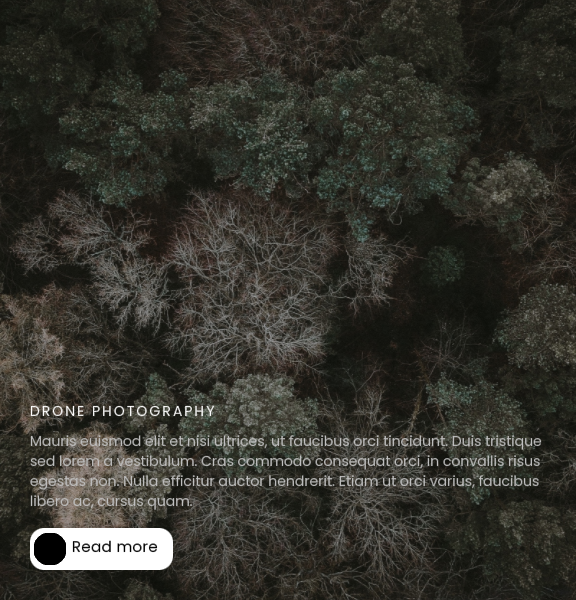
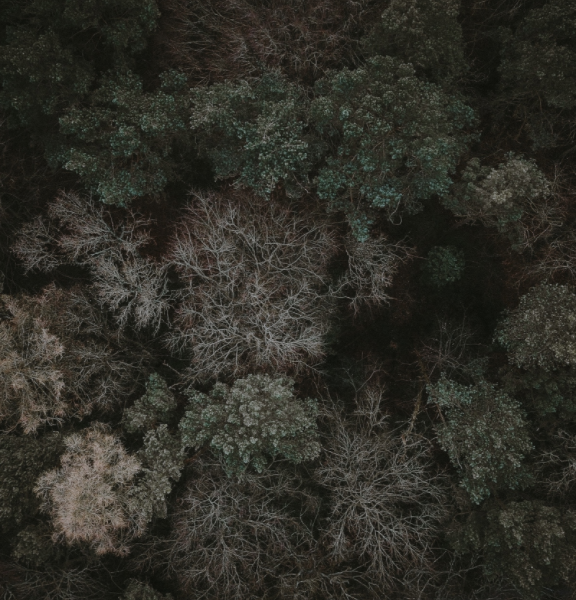
More work add one section

Changed region(s): [[0.0312, 0.72, 0.9375, 0.84], [0.0312, 0.87, 0.3125, 0.96], [0.0625, 0.66, 0.375, 0.69]]

diff --git a/css/style.min.css b/css/style.min.css
@@ -1,1 +1,1 @@
-body{font-family:"Poppins",sans-serif}header{background-color:#120000;color:#fff}.menu{padding:2% 0 2% 0}.menu-text{text-align:center}.menu-text a{text-decoration:none;color:#fff}.menu-text a:hover{color:#c6c4c4}.menu-btn a{text-decoration:none;color:#000;border:1px solid #fff;background-color:#fff;padding:9px 20px 13px 20px;border-radius:15px}.header-logo img{padding:0 0 0 20%}main{background-color:#000}.first-bg{background-image:url("../img/FirsB.png");background-size:cover;background-position:center;height:100vh;width:100vw;display:flex;justify-content:center;color:#fff;text-align:center}.first-bg div h1{color:#fff;font-size:54px;text-align:center}.first-bg div p{color:silver;font-size:14px;font-weight:400;text-align:center}.first-bg .frist-bg-text{margin:29% 0 0 30%}.first-bg .Pho-text{color:silver;font-size:14px;font-weight:400}.icon{display:flex;margin:45% 0 0 8%;width:20%}.icon div{padding:5px}/*# sourceMappingURL=style.min.css.map */
+body{font-family:"Poppins",sans-serif}header{background-color:#120000;color:#fff}.menu{padding:2% 0 2% 0}.menu-text{text-align:center}.menu-text a{text-decoration:none;color:#fff}.menu-text a:hover{color:#c6c4c4;border-bottom:1px solid #c6c4c4}.menu-btn a{text-decoration:none;color:#000;border:1px solid #fff;background-color:#fff;transition:250ms all;padding:9px 20px 13px 20px;border-radius:15px}.menu-btn a:hover{border:1px solid #aeadad;background-color:#aeadad;transition:250ms all}.header-logo img{padding:0 0 0 20%}main{background-color:#000}.first-bg{background-image:url("../img/FirsB.png");background-size:cover;background-position:center;height:100vh;display:flex;justify-content:center;color:#fff;text-align:center}.first-bg div h1{color:#fff;font-size:54px;text-align:center}.first-bg div p{color:silver;font-size:14px;font-weight:400;text-align:center}.first-bg .frist-bg-text{margin:29% 0 0 30%}.first-bg .Pho-text{color:silver;font-size:14px;font-weight:400}.icon{display:flex;margin:45% 0 0 8%;width:20%}.icon div{padding:5px}.Areas{margin:8% 0 0 0}.Areas-text{text-align:center;color:#fff}.Areas-text h2{font-size:40px;font-weight:400;line-height:42px}.Areas-text p{color:silver;font-size:23px;font-weight:400;margin:0 0 5% 0}.first-card{position:relative;display:inline-block}.first-card .text-overlay{position:absolute;top:75%;left:53%;transform:translate(-50%, -50%);padding:20px;font-size:10px;color:#fff}.first-card .text-overlay h2{font-size:14px;font-weight:400}.first-card .text-overlay p{font-size:14px;font-weight:400;color:silver;width:150%}.first-card img{padding:0 0 0 30%}.first-card-btn a{text-decoration:none;color:#000;border:1px solid #fff;padding:10px 20px;border-radius:15px;background-color:#fff;font-size:15px;font-weight:500}.first-card-btn{margin:10% 0 0 0}.second-card .text-overlay2{position:absolute;top:210%;left:67%;transform:translate(-50%, -50%);padding:20px;font-size:10px;color:#fff}.second-card .text-overlay2 h2{font-size:14px;font-weight:400}.second-card .text-overlay2 p{font-size:14px;font-weight:400;color:silver;width:150%}.second-card-btn a{text-decoration:none;color:#000;border:1px solid #fff;padding:10px 20px;border-radius:15px;background-color:#fff;font-size:15px;font-weight:500}.second-card-btn{margin:10% 0 0 0}.Areas-first-card{margin:0 0 2% 0}.third-card img{padding:0 0 0 30%}.third-card .text-overlay{position:absolute;top:292%;left:31%;transform:translate(-50%, -50%);padding:20px;font-size:10px;color:#fff}.third-card .text-overlay h2{font-size:14px;font-weight:400}.third-card .text-overlay p{font-size:14px;font-weight:400;color:silver;width:150%}.third-card-btn a{text-decoration:none;color:#000;border:1px solid #fff;padding:10px 20px;border-radius:15px;background-color:#fff;font-size:15px;font-weight:500}.third-card-btn{margin:8% 0 0 0}.fourth-card .text-overlay{position:absolute;top:292%;left:66%;transform:translate(-50%, -50%);padding:20px;font-size:10px;color:#fff}.fourth-card .text-overlay h2{font-size:14px;font-weight:400}.fourth-card .text-overlay p{font-size:14px;font-weight:400;color:silver;width:150%}.fourth-card-btn a{text-decoration:none;color:#000;border:1px solid #fff;padding:10px 20px;border-radius:15px;background-color:#fff;font-size:15px;font-weight:500}.fourth-card-btn{margin:8% 0 0 0}.card-text{color:silver}.fourth-card-btn a:hover{background-color:#a7a7a7;border:1px solid #a7a7a7;transition:250ms all}.first-card-btn a:hover{background-color:#a7a7a7;border:1px solid #a7a7a7;transition:250ms all}.second-card-btn a:hover{background-color:#a7a7a7;border:1px solid #a7a7a7;transition:250ms all}.third-card-btn a:hover{background-color:#a7a7a7;border:1px solid #a7a7a7;transition:250ms all}/*# sourceMappingURL=style.min.css.map */

diff --git a/dist/css/style.min.css b/dist/css/style.min.css
@@ -1,1 +1,1 @@
-body{font-family:"Poppins",sans-serif}header{background-color:#120000;color:#fff}.menu{padding:2% 0 2% 0}.menu-text{text-align:center}.menu-text a{text-decoration:none;color:#fff}.menu-text a:hover{color:#c6c4c4}.menu-btn a{text-decoration:none;color:#000;border:1px solid #fff;background-color:#fff;padding:9px 20px 13px 20px;border-radius:15px}.header-logo img{padding:0 0 0 20%}main{background-color:#000}.first-bg{background-image:url("../img/FirsB.png");background-size:cover;background-position:center;height:100vh;width:100vw;display:flex;justify-content:center;color:#fff;text-align:center}.first-bg div h1{color:#fff;font-size:54px;text-align:center}.first-bg div p{color:silver;font-size:14px;font-weight:400;text-align:center}.first-bg .frist-bg-text{margin:29% 0 0 30%}.first-bg .Pho-text{color:silver;font-size:14px;font-weight:400}.icon{display:flex;margin:45% 0 0 8%;width:20%}.icon div{padding:5px}/*# sourceMappingURL=style.min.css.map */
+body{font-family:"Poppins",sans-serif}header{background-color:#120000;color:#fff}.menu{padding:2% 0 2% 0}.menu-text{text-align:center}.menu-text a{text-decoration:none;color:#fff}.menu-text a:hover{color:#c6c4c4;border-bottom:1px solid #c6c4c4}.menu-btn a{text-decoration:none;color:#000;border:1px solid #fff;background-color:#fff;transition:250ms all;padding:9px 20px 13px 20px;border-radius:15px}.menu-btn a:hover{border:1px solid #aeadad;background-color:#aeadad;transition:250ms all}.header-logo img{padding:0 0 0 20%}main{background-color:#000}.first-bg{background-image:url("../img/FirsB.png");background-size:cover;background-position:center;height:100vh;display:flex;justify-content:center;color:#fff;text-align:center}.first-bg div h1{color:#fff;font-size:54px;text-align:center}.first-bg div p{color:silver;font-size:14px;font-weight:400;text-align:center}.first-bg .frist-bg-text{margin:29% 0 0 30%}.first-bg .Pho-text{color:silver;font-size:14px;font-weight:400}.icon{display:flex;margin:45% 0 0 8%;width:20%}.icon div{padding:5px}.Areas{margin:8% 0 0 0}.Areas-text{text-align:center;color:#fff}.Areas-text h2{font-size:40px;font-weight:400;line-height:42px}.Areas-text p{color:silver;font-size:23px;font-weight:400;margin:0 0 5% 0}.first-card{position:relative;display:inline-block}.first-card .text-overlay{position:absolute;top:75%;left:53%;transform:translate(-50%, -50%);padding:20px;font-size:10px;color:#fff}.first-card .text-overlay h2{font-size:14px;font-weight:400}.first-card .text-overlay p{font-size:14px;font-weight:400;color:silver;width:150%}.first-card img{padding:0 0 0 30%}.first-card-btn a{text-decoration:none;color:#000;border:1px solid #fff;padding:10px 20px;border-radius:15px;background-color:#fff;font-size:15px;font-weight:500}.first-card-btn{margin:10% 0 0 0}.second-card .text-overlay2{position:absolute;top:210%;left:67%;transform:translate(-50%, -50%);padding:20px;font-size:10px;color:#fff}.second-card .text-overlay2 h2{font-size:14px;font-weight:400}.second-card .text-overlay2 p{font-size:14px;font-weight:400;color:silver;width:150%}.second-card-btn a{text-decoration:none;color:#000;border:1px solid #fff;padding:10px 20px;border-radius:15px;background-color:#fff;font-size:15px;font-weight:500}.second-card-btn{margin:10% 0 0 0}.Areas-first-card{margin:0 0 2% 0}.third-card img{padding:0 0 0 30%}.third-card .text-overlay{position:absolute;top:292%;left:31%;transform:translate(-50%, -50%);padding:20px;font-size:10px;color:#fff}.third-card .text-overlay h2{font-size:14px;font-weight:400}.third-card .text-overlay p{font-size:14px;font-weight:400;color:silver;width:150%}.third-card-btn a{text-decoration:none;color:#000;border:1px solid #fff;padding:10px 20px;border-radius:15px;background-color:#fff;font-size:15px;font-weight:500}.third-card-btn{margin:8% 0 0 0}.fourth-card .text-overlay{position:absolute;top:292%;left:66%;transform:translate(-50%, -50%);padding:20px;font-size:10px;color:#fff}.fourth-card .text-overlay h2{font-size:14px;font-weight:400}.fourth-card .text-overlay p{font-size:14px;font-weight:400;color:silver;width:150%}.fourth-card-btn a{text-decoration:none;color:#000;border:1px solid #fff;padding:10px 20px;border-radius:15px;background-color:#fff;font-size:15px;font-weight:500}.fourth-card-btn{margin:8% 0 0 0}.card-text{color:silver}.fourth-card-btn a:hover{background-color:#a7a7a7;border:1px solid #a7a7a7;transition:250ms all}.first-card-btn a:hover{background-color:#a7a7a7;border:1px solid #a7a7a7;transition:250ms all}.second-card-btn a:hover{background-color:#a7a7a7;border:1px solid #a7a7a7;transition:250ms all}.third-card-btn a:hover{background-color:#a7a7a7;border:1px solid #a7a7a7;transition:250ms all}/*# sourceMappingURL=style.min.css.map */

diff --git a/SASS/style.sass b/SASS/style.sass
@@ -12,13 +12,19 @@ header
     color: #fff
 .menu-text a:hover
     color: #c6c4c4
+    border-bottom: 1px solid  #c6c4c4
 .menu-btn a 
     text-decoration: none
     color: #000000
     border: 1px solid #fff
     background-color: #fff
+    transition: 250ms all
     padding: 9px 20px 13px 20px
     border-radius: 15px
+.menu-btn a:hover
+    border: 1px solid #aeadad
+    background-color: #aeadad
+    transition: 250ms all
 .header-logo img
     padding: 0 0 0 20%
 main
@@ -28,7 +34,6 @@ main
     background-size: cover
     background-position: center
     height: 100vh
-    width: 100vw
     display: flex
     justify-content: center
     color: white
@@ -55,3 +60,156 @@ main
     width: 20% 
 .icon div
     padding: 5px
+.Areas
+    margin: 8% 0 0 0
+.Areas-text
+    text-align: center
+    color: #fff
+.Areas-text h2
+    font-size: 40px
+    font-weight: 400
+    line-height: 42px
+.Areas-text p
+    color: rgb(192, 192, 192)
+    font-size: 23px
+    font-weight: 400
+    margin: 0 0 5% 0 
+.first-card
+    position: relative
+    display: inline-block
+    .text-overlay
+        position: absolute
+        top: 75%
+        left: 53%
+        transform: translate(-50%, -50%)
+        padding: 20px
+        font-size: 10px
+        color: white
+    .text-overlay h2
+        font-size: 14px
+        font-weight: 400
+    .text-overlay p
+        font-size: 14px
+        font-weight: 400
+        color: rgb(192, 192, 192)
+        width: 150%
+.first-card img
+    padding: 0 0 0 30%
+.first-card-btn a
+    text-decoration: none
+    color: #000
+    border: 1px solid #fff
+    padding: 10px 20px
+    border-radius: 15px
+    background-color: #fff
+    font-size: 15px
+    font-weight: 500
+.first-card-btn
+    margin: 10% 0 0 0
+
+.second-card
+    .text-overlay2
+        position: absolute
+        top: 210%
+        left: 67%
+        transform: translate(-50%, -50%)
+        padding: 20px
+        font-size: 10px
+        color: white
+    .text-overlay2 h2
+        font-size: 14px
+        font-weight: 400
+    .text-overlay2 p
+        font-size: 14px
+        font-weight: 400
+        color: rgb(192, 192, 192)
+        width: 150%
+.second-card-btn a
+    text-decoration: none
+    color: #000
+    border: 1px solid #fff
+    padding: 10px 20px
+    border-radius: 15px
+    background-color: #fff
+    font-size: 15px
+    font-weight: 500
+.second-card-btn
+    margin: 10% 0 0 0
+.Areas-first-card
+    margin: 0 0 2% 0
+.third-card img
+    padding: 0 0 0 30%
+.third-card
+    .text-overlay
+        position: absolute
+        top: 292%
+        left: 31%
+        transform: translate(-50%, -50%)
+        padding: 20px
+        font-size: 10px
+        color: white
+    .text-overlay h2
+        font-size: 14px
+        font-weight: 400
+    .text-overlay p
+        font-size: 14px
+        font-weight: 400
+        color: rgb(192, 192, 192)
+        width: 150%
+.third-card-btn a
+    text-decoration: none
+    color: #000
+    border: 1px solid #fff
+    padding: 10px 20px
+    border-radius: 15px
+    background-color: #fff
+    font-size: 15px
+    font-weight: 500
+.third-card-btn
+    margin: 8% 0 0 0
+.fourth-card
+    .text-overlay
+        position: absolute
+        top: 292%
+        left: 66%
+        transform: translate(-50%, -50%)
+        padding: 20px
+        font-size: 10px
+        color: white
+    .text-overlay h2
+        font-size: 14px
+        font-weight: 400
+    .text-overlay p
+        font-size: 14px
+        font-weight: 400
+        color: rgb(192, 192, 192)
+        width: 150%
+.fourth-card-btn a
+    text-decoration: none
+    color: #000
+    border: 1px solid #fff
+    padding: 10px 20px
+    border-radius: 15px
+    background-color: #fff
+    font-size: 15px
+    font-weight: 500
+.fourth-card-btn
+    margin: 8% 0 0 0
+.card-text
+    color: rgb(192, 192, 192)
+.fourth-card-btn a:hover
+    background-color: #a7a7a7
+    border: 1px solid #a7a7a7
+    transition: 250ms all
+.first-card-btn a:hover
+    background-color: #a7a7a7
+    border: 1px solid #a7a7a7
+    transition: 250ms all
+.second-card-btn a:hover
+    background-color: #a7a7a7
+    border: 1px solid #a7a7a7
+    transition: 250ms all
+.third-card-btn a:hover
+    background-color: #a7a7a7
+    border: 1px solid #a7a7a7
+    transition: 250ms all

diff --git a/HTML/index.html b/HTML/index.html
@@ -64,25 +64,77 @@
                 </div>
             </div>
         </div>
-        <div class="container-fluid">
-            <h2>
-                What we do.
-            </h2>
-            <p>
-                The areas that we're specialized in.
-            </p>
-            <div>
-
+        <div class="container-fluid Areas">
+            <div class="Areas-text">
+                <h2>
+                    What we do.
+                </h2>
+                <p>
+                    The areas that we're specialized in.
+                </p> 
             </div>
-            <div>
-
+            
+            <div class="row Areas-first-card">
+                <div class="col-6 first-card">
+                    <img src="../img/PRODUCT.png" alt="" width="100%">
+                    <div class="text-overlay">
+                        <h2>Product Photography</h2>
+                        <p class="card-text">
+                            Cras commodo consequat orci, in convallis risus egestas non. Nulla
+                            <br>efficitur auctor hendrerit. Etiam ut orci varius, faucibus libero ac, cursus <br>
+                            quam.
+                        </p>
+                        <div class="first-card-btn">
+                            <div class="first-div"></div>
+                            <a href="">Read more</a>
+                        </div>
+                    </div>
+                </div>
+                <div class="col-6 second-card">
+                    <img src="../img/ARCHITECTURE.png" alt="" width="70%">
+                    <div class="text-overlay2">
+                        <h2>Architecture Photography</h2>
+                        <p class="card-text">
+                            Aenean porta neque eget consequat fringilla. Vestibulum ultrices, orci <br> nec egestas pharetra, ligula est semper enim, nec auctor sapien leo nec <br>
+                            purus. Fusce tincidunt aliquet sapien, sit amet rhoncus leo imperdiet nec.
+                        </p>
+                        <div class="second-card-btn">
+                            <div></div>
+                            <a href="">Read more</a>
+                        </div>
+                    </div>
+                </div>
             </div>
-            <div>
-
+            <div class="row Areas-second-card">
+                <div class="col-6 third-card">
+                    <img src="../img/DRONE.png" alt="" width="100%">
+                    <div class="text-overlay">
+                        <h2>Drone Photography</h2>
+                        <p class="card-text">
+                            Mauris euismod elit et nisi ultrices, ut faucibus orci tincidunt. Duis tristique <br> sed lorem a vestibulum. Cras commodo consequat orci, in convallis risus <br> egestas non. Nulla efficitur auctor hendrerit. Etiam ut orci varius, faucibus <br> libero ac, cursus quam.
+                        </p>
+                        <div class="third-card-btn">
+                            <div></div>
+                            <a href="">Read more</a>
+                        </div>
+                    </div>
+                </div>
+                <div class="col-6 fourth-card">
+                    <img src="../img/WILBLIFE.png" alt="" width="70%">
+                    <div class="text-overlay">
+                        <h2>Wildlife Photography</h2>
+                        <p class="card-text">
+                            Lorem ipsum dolor sit amet, consectetur adipiscing elit. Nullam <br> scelerisque aliquam odio et faucibus. Nulla rhoncus feugiat eros <br>
+                            quis consectetur. Morbi neque ex, condimentum dapibus congue et, <br> vulputate ut ligula. Vestibulum sit amet urna turpis.
+                        </p>
+                        <div class="fourth-card-btn">
+                            <div></div>
+                            <a href="">Read more</a>
+                        </div>
+                    </div>
+                </div>
             </div>
-            <div>
-                
-            </div>
+            
         </div>
     </main>
 </body>
